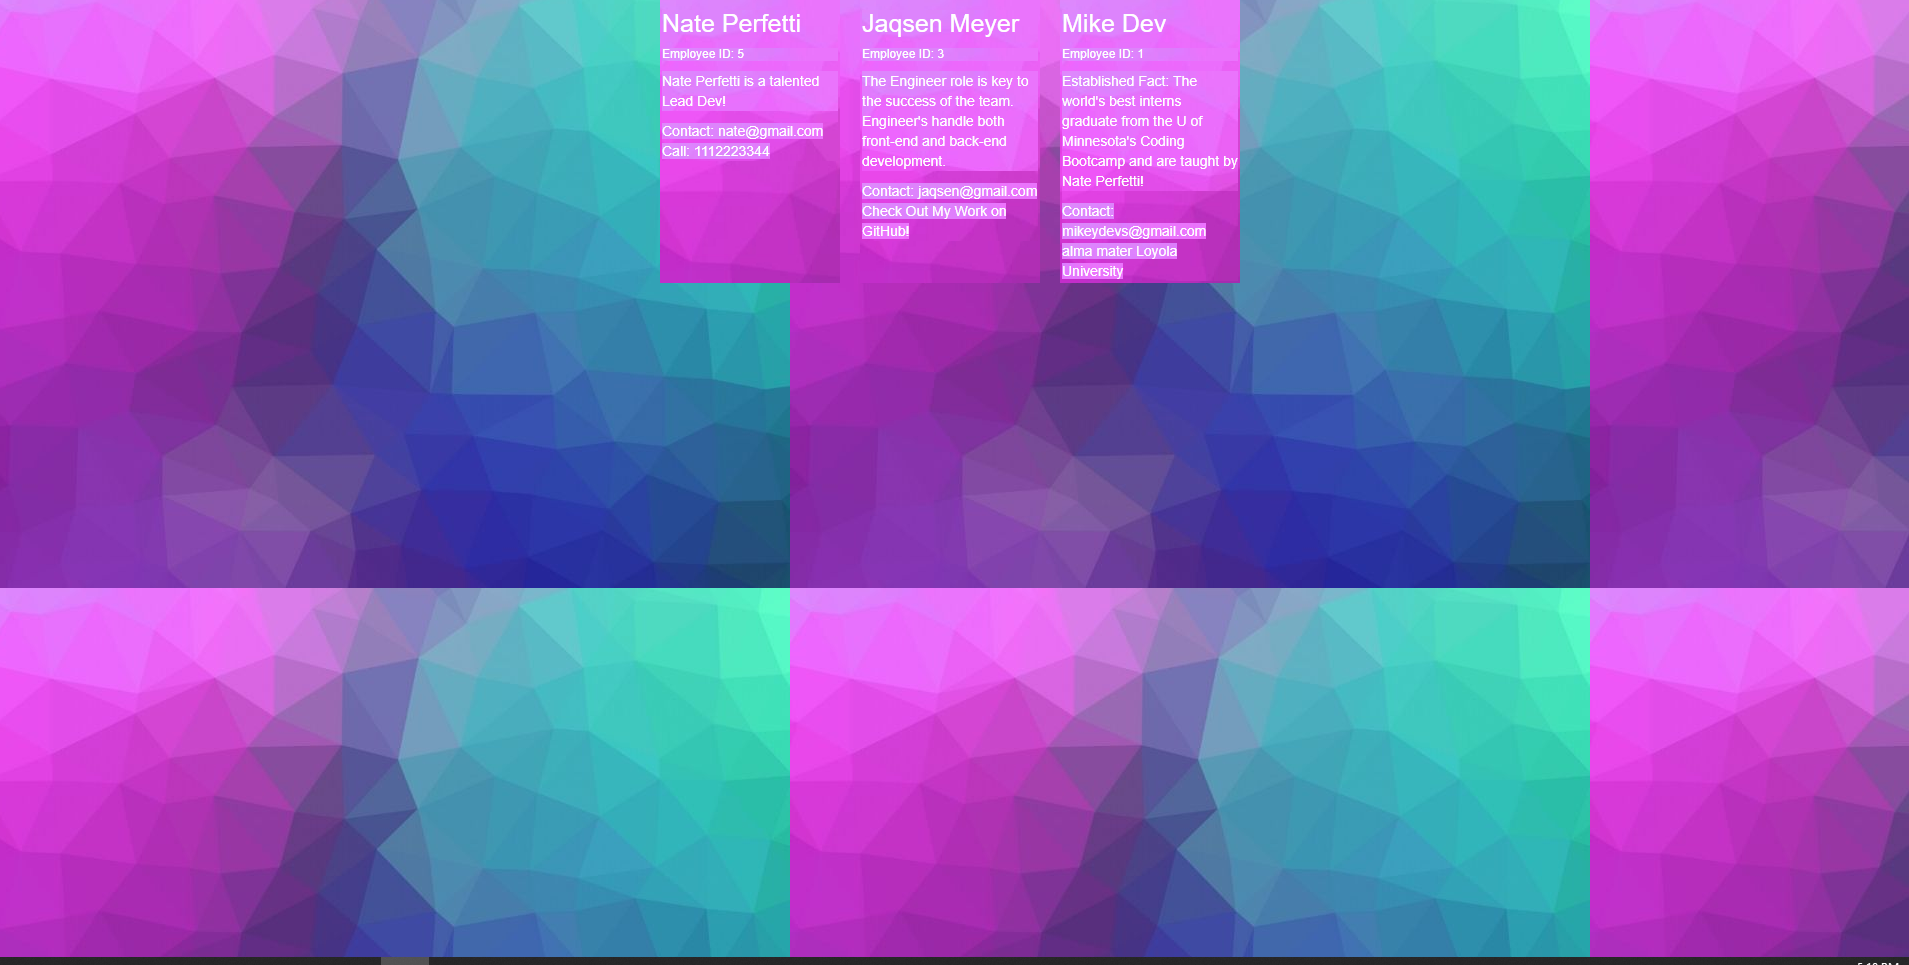
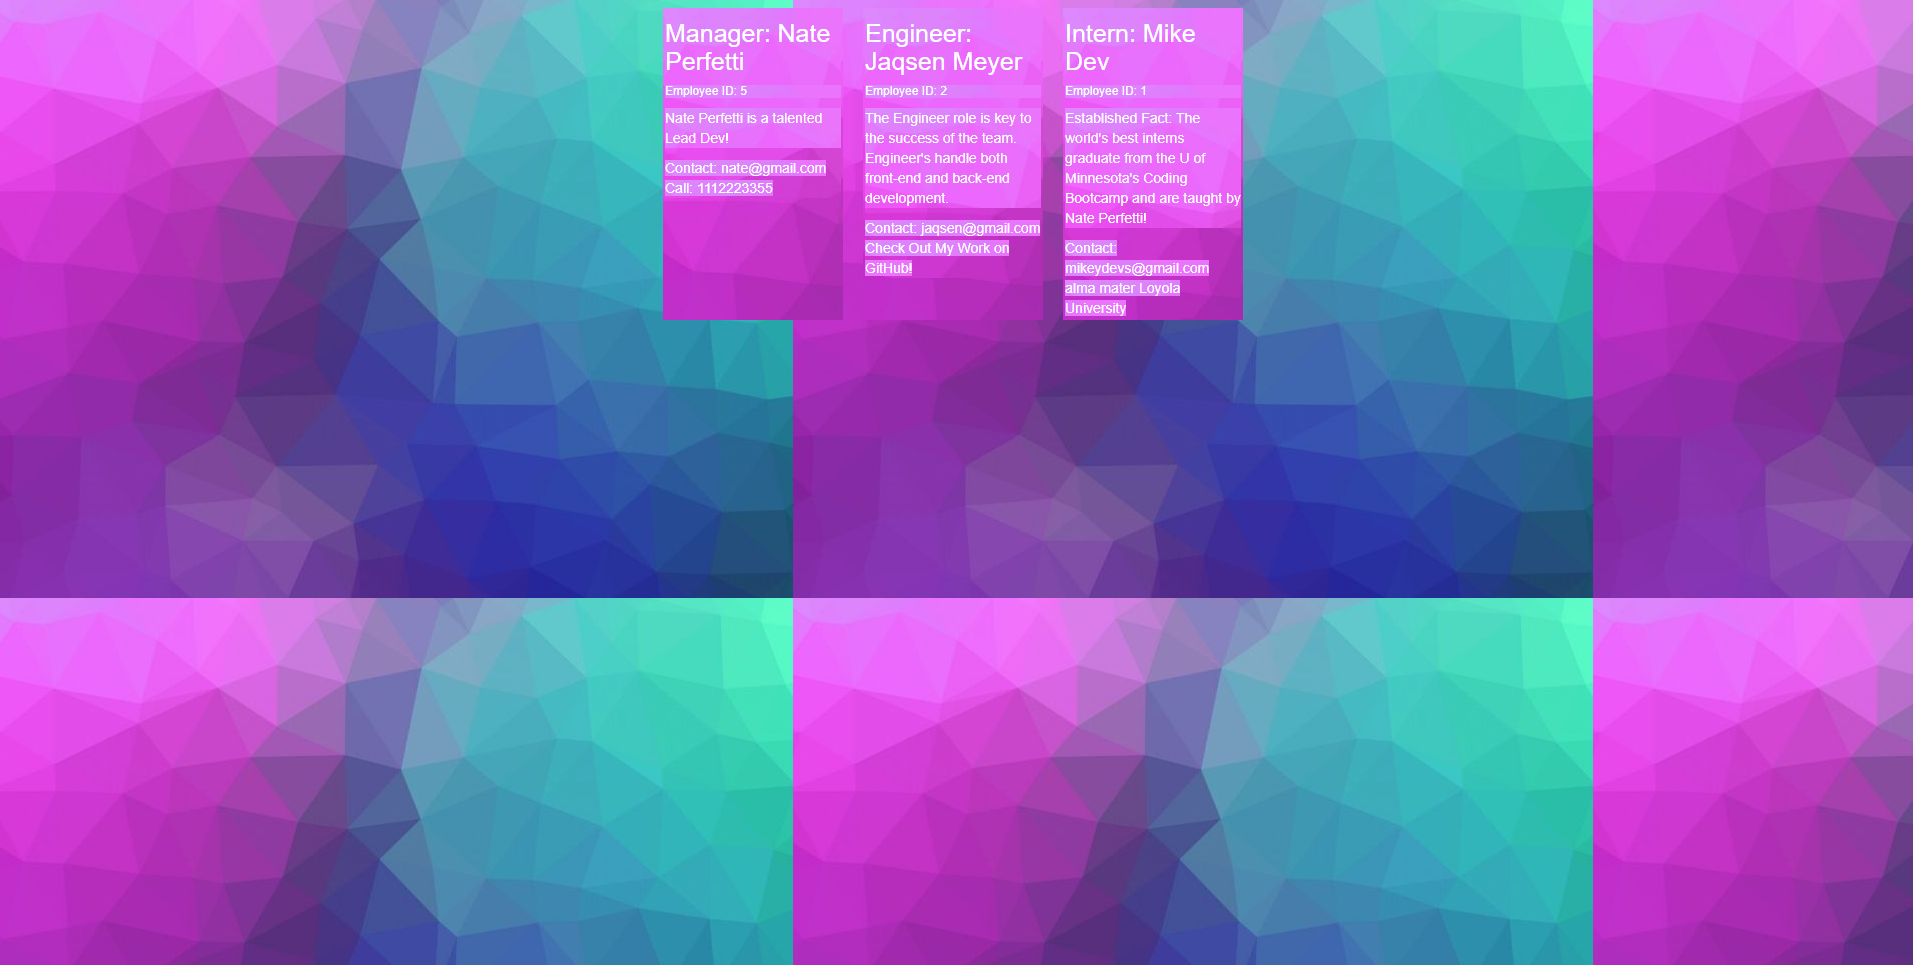
updated screenshot on readme proper

diff --git a/assets/buildTeam.js b/assets/buildTeam.js
@@ -14,14 +14,14 @@ class makeTeam {
     <meta http-equiv="X-UA-Compatible" content="IE=edge">
     <meta name="viewport" content="width=device-width, initial-scale=1.0">
     <link rel="stylesheet" href="https://cdn.jsdelivr.net/npm/bootstrap@3.4.1/dist/css/bootstrap.min.css" integrity="sha384-HSMxcRTRxnN+Bdg0JdbxYKrThecOKuH5zCYotlSAcp1+c8xmyTe9GYg1l9a69psu" crossorigin="anonymous">
-    <link rel="stylesheet" href="./assets/style.css">
+    <link rel="stylesheet" href="./style.css">
     <title>My Dev Team 🖥👥</title>
 </head>
 <body>
     <section class="testFlex">
         <div class="card" style="width: 18rem;">
             <div class="card-body">
-            <h5 class="card-title">${Manager.manager1}</h5>
+            <h5 class="card-title">Manager: ${Manager.manager1}</h5>
             <h6 class="card-subtitle mb-2 text-muted">Employee ID: ${Manager.managerID}</h6>
             <p class="card-text">${Manager.manager1} is a talented Lead Dev!</p>
             <a href="mailto:${Manager.managerEmail}" class="card-link">Contact: ${Manager.managerEmail}</a>
@@ -30,7 +30,7 @@ class makeTeam {
         </div>
         <div class="card" style="width: 18rem;">
             <div class="card-body">
-            <h5 class="card-title">${Engineer.engineer}</h5>
+            <h5 class="card-title">Engineer: ${Engineer.engineer}</h5>
             <h6 class="card-subtitle mb-2 text-muted">Employee ID: ${Engineer.engineerID}</h6>
             <p class="card-text">The Engineer role is key to the success of the team. Engineer's handle both front-end and back-end development.</p>
             <a href="mailto:${Engineer.engineerEmail}" class="card-link">Contact: ${Engineer.engineerEmail}</a>
@@ -39,7 +39,7 @@ class makeTeam {
         </div>
         <div class="card" style="width: 18rem;">
             <div class="card-body">
-            <h5 class="card-title">${Intern.intern}</h5>
+            <h5 class="card-title">Intern: ${Intern.intern}</h5>
             <h6 class="card-subtitle mb-2 text-muted">Employee ID: ${Intern.internID}</h6>
             <p class="card-text">Established Fact: The world's best interns graduate from the U of Minnesota's Coding Bootcamp and are taught by Nate Perfetti!</p>
             <a href="mailto:${Intern.internEmail}" class="card-link">Contact: ${Intern.internEmail}</a>

diff --git a/index.js b/index.js
@@ -59,7 +59,7 @@ function createTeam() {
                         break;
                     case 'Build Team':
                         const Build = makeTeam.buildTeam(team);
-                        fs.writeFile('testTeam.html', Build, (err) => 
+                        fs.writeFile('./assets/testTeam.html', Build, (err) => 
                         err ? console.log(err) : console.log('HTML Built'));
                 }
             })
